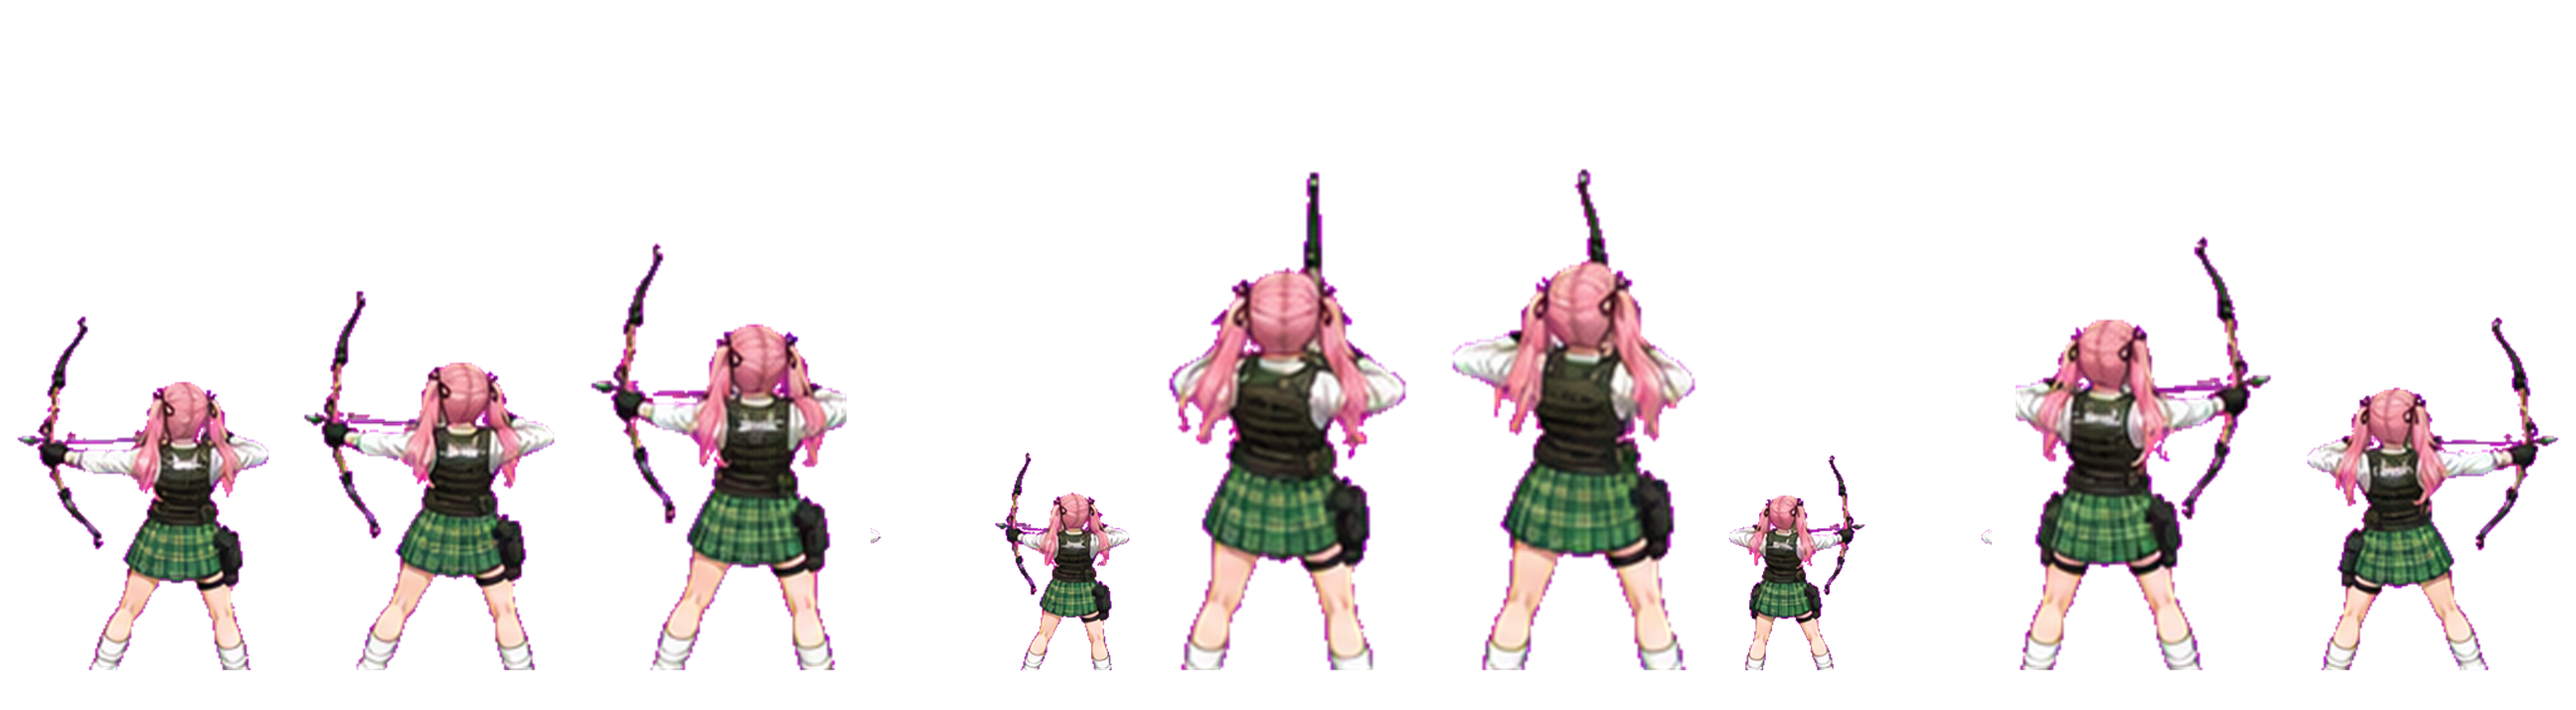
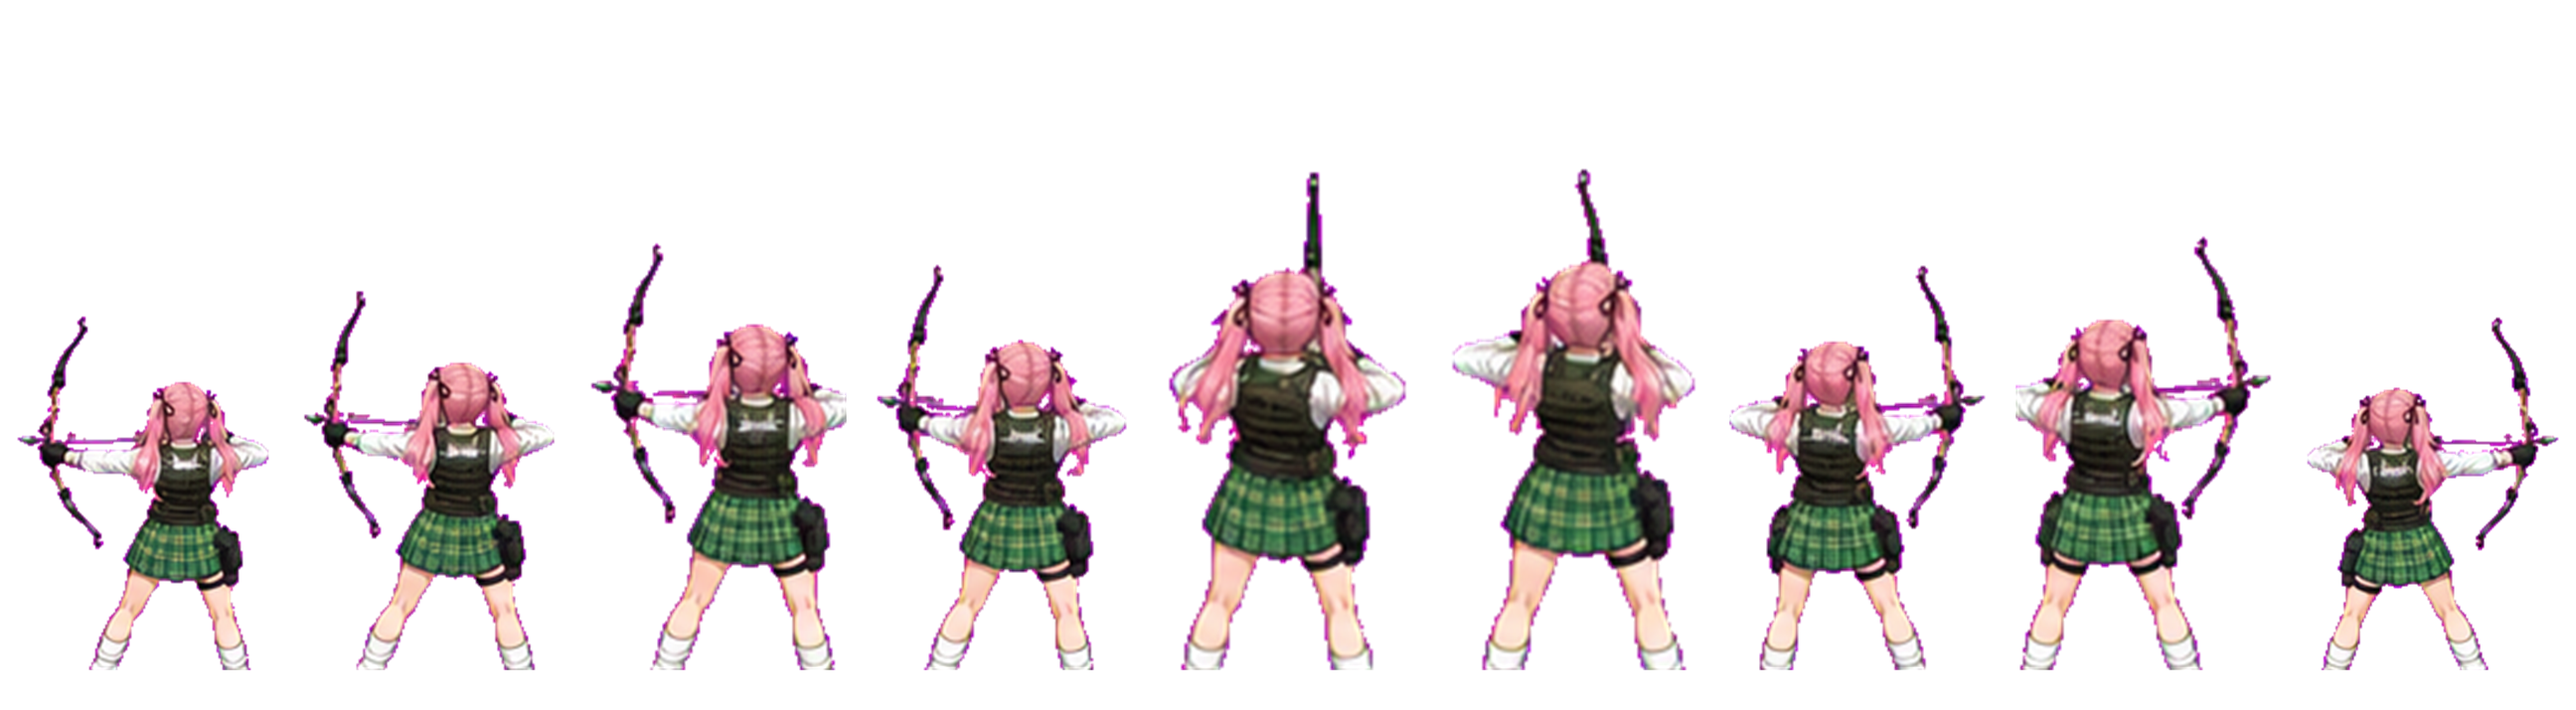
좀비 캐릭터 공격 애니메이션 이미지 추가 및 정규 표현식 업데이트

Changed region(s): [[0.6562, 0.4308, 0.7812, 0.9538], [0.3438, 0.3692, 0.4375, 0.9538], [0.7188, 0.3692, 0.75, 0.4]]

diff --git a/school-zombie-defense/js/game.js b/school-zombie-defense/js/game.js
@@ -28,7 +28,7 @@
       return false;
     }
   })();
-  const PNG_ONLY_ZOMBIE_ASSETS = /assets\/images\/(?:effect-fire-zone-sheet|zombie-(?:walk-(?:teacher|nurse|athlete|janitor|guard|crawler|screamer|spider|bloom)|death-(?:teacher|nurse|athlete|janitor|guard|crawler|screamer|spider|bloom)-sheet|corpse-(?:teacher|nurse|athlete|janitor|guard|crawler|screamer|spider|bloom)-[1-3]|hit-(?:firebomb|shock|nail)-sheet))\.png$/i;
+  const PNG_ONLY_ZOMBIE_ASSETS = /assets\/images\/(?:character-a-attack-[0-3]|effect-fire-zone-sheet|zombie-(?:walk-(?:teacher|nurse|athlete|janitor|guard|crawler|screamer|spider|bloom)|death-(?:teacher|nurse|athlete|janitor|guard|crawler|screamer|spider|bloom)-sheet|corpse-(?:teacher|nurse|athlete|janitor|guard|crawler|screamer|spider|bloom)-[1-3]|hit-(?:firebomb|shock|nail)-sheet))\.png$/i;
   const imageAsset = (path) => {
     const normalizedPath = path.replace(/\\/g, "/");
     return SUPPORTS_WEBP && !PNG_ONLY_ZOMBIE_ASSETS.test(normalizedPath)
